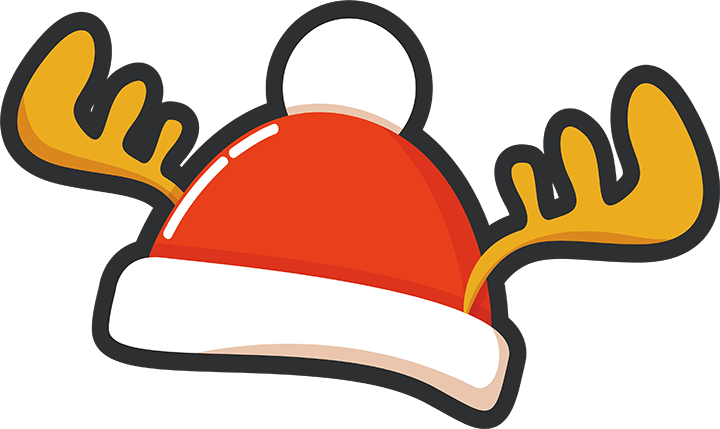
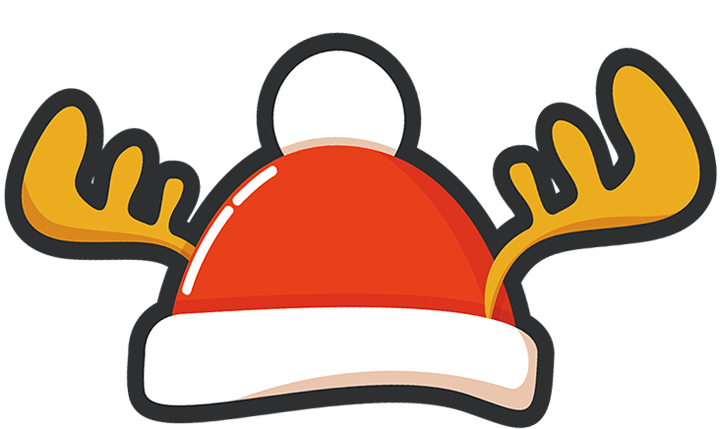
测试

diff --git a/wwwroot/js/index3.js b/wwwroot/js/index3.js
@@ -19,7 +19,11 @@
         canvasH: document.documentElement.clientHeight,
         ctracker: null,
         hatInitW: 0,
-        hatInitH: 0
+        hatInitH: 0,
+        glassInitW: 0,
+        glassInitH: 0,
+        shyLineInitW: 0,
+        shyLineInitH: 0
     }
 
     ARPhoto.requestAnimationFrame = function (callback, element) {
@@ -173,17 +177,44 @@
 
         if (positions) {
             var headW = positions[14][0] - positions[0][0],
-                headTangle = Math.atan((positions[14][1] - positions[0][1]) / (positions[14][0] - positions[0][0])) * 180,
-                hatRealW = ARPhoto.global.hatInitW / 300 * headW,
+                headAngle = Math.atan((positions[33][0] - positions[62][0]) / (positions[33][1] - positions[62][1])) * 180 / Math.PI,
+                hatRealW = ARPhoto.global.hatInitW / 350 * headW,
                 hatRealH = ARPhoto.global.hatInitH * hatRealW / ARPhoto.global.hatInitW,
-                hatL = positions[0][0] - (ARPhoto.global.hatInitW - 300) / 2 * hatRealW / ARPhoto.global.hatInitW,
+                hatL = positions[0][0] - (ARPhoto.global.hatInitW - 350) / 2 * hatRealW / ARPhoto.global.hatInitW,
                 hatT = positions[20][1] >= positions[17][1] ? positions[20][1] - hatRealH + 'px' : positions[17][1] - hatRealH
 
             ARPhoto.global.oHat.style.width = hatRealW + 'px'
             ARPhoto.global.oHat.style.height = hatRealH + 'px'
-            ARPhoto.global.oHat.style.transform = 'translate(' + hatL + 'px, ' + hatT + ') rotate(' + (headTangle) + 'deg)'
+            ARPhoto.global.oHat.style.display = 'block'
+            ARPhoto.global.oHat.style['transform-origin'] = 'center bottom'
+            ARPhoto.global.oHat.style.transform = 'translate(' + hatL + 'px, ' + hatT + 'px) rotate(' + (-headAngle) + 'deg)'
+            // ARPhoto.global.traceCtx.clearRect(0, 0, ARPhoto.global.canvasW, ARPhoto.global.canvasH)
+            // ARPhoto.global.ctracker.draw(ARPhoto.global.oTrace)
+
+            var glassRealW = headW,
+                glassRealH = ARPhoto.global.glassInitH * glassRealW / ARPhoto.global.glassInitW,
+                glassL = positions[27][0] - (positions[27][0] - positions[0][0]),
+                glassT = positions[27][1] >= positions[32][1] ? positions[27][1] - glassRealH / 2 + 'px' : positions[32][1] - glassRealH / 2
+
+            ARPhoto.global.oGlass.style.width = glassRealW + 'px'
+            ARPhoto.global.oGlass.style.height = glassRealH + 'px'
+            ARPhoto.global.oGlass.style.display = 'block'
+            ARPhoto.global.oGlass.style['transform-origin'] = 'center bottom'
+            ARPhoto.global.oGlass.style.transform = 'translate(' + glassL + 'px, ' + glassT + 'px) rotate(' + (-headAngle) + 'deg)'
+
             ARPhoto.global.traceCtx.clearRect(0, 0, ARPhoto.global.canvasW, ARPhoto.global.canvasH)
-            ARPhoto.global.ctracker.draw(ARPhoto.global.oTrace)
+
+            var shyLineRealW = positions[13][0] - positions[1][0],
+                shyLineRealH = ARPhoto.global.shyLineInitW * shyLineRealW / ARPhoto.global.shyLineInitH,
+                shyLineL = positions[2][0],
+                shyLineT = positions[1][1] >= positions[13][1] ? positions[1][1] - shyLineRealH / 2 + 'px' : positions[13][1] - shyLineRealH / 2
+
+            ARPhoto.global.oShyLine.style.width = shyLineRealW + 'px'
+            ARPhoto.global.oShyLine.style.height = shyLineRealH + 'px'
+            ARPhoto.global.oShyLine.style.display = 'block'
+            // ARPhoto.global.oShyLine.style['transform-origin'] = 'center'
+            ARPhoto.global.oShyLine.style.transform = 'translate(' + shyLineL + 'px, ' + shyLineT + 'px) rotate(' + (-headAngle) + 'deg)'
+            // ARPhoto.global.ctracker.draw(ARPhoto.global.oTrace)
         }
     }
 
@@ -192,6 +223,10 @@
         this.enumerateDevices()
         this.global.hatInitW = ARPhoto.global.oHat.width
         this.global.hatInitH = ARPhoto.global.oHat.height
+        this.global.glassInitW = ARPhoto.global.oGlass.width
+        this.global.glassInitH = ARPhoto.global.oGlass.height
+        this.global.shyLineInitW = ARPhoto.global.oShyLine.width
+        this.global.shyLineInitH = ARPhoto.global.oShyLine.height
         // var timer = setInterval(function () {
         //     if (ARPhoto.global.oVideo.readyState === ARPhoto.global.oVideo.HAVE_ENOUGH_DATA && ARPhoto.global.oVideo.videoWidth > 0) {
         //         ARPhoto.initCanvas(ARPhoto.global.oVideo.videoWidth, ARPhoto.global.oVideo.videoHeight)

diff --git a/wwwroot/css/style.scss b/wwwroot/css/style.scss
@@ -85,10 +85,6 @@
         display: none;
         position: absolute;
     }
-
-    #hat {
-        display: block;
-    }
 }
 
 .log {
